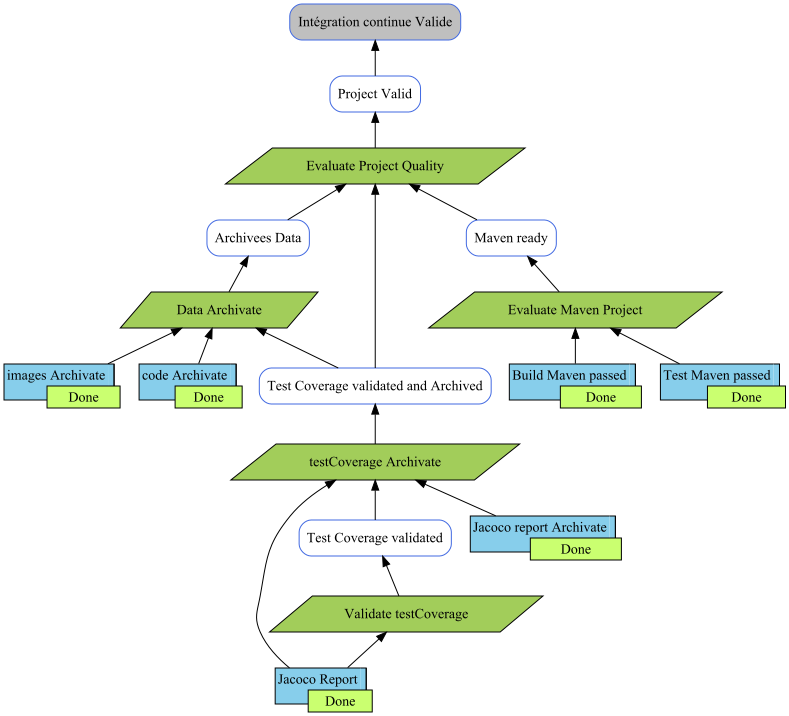
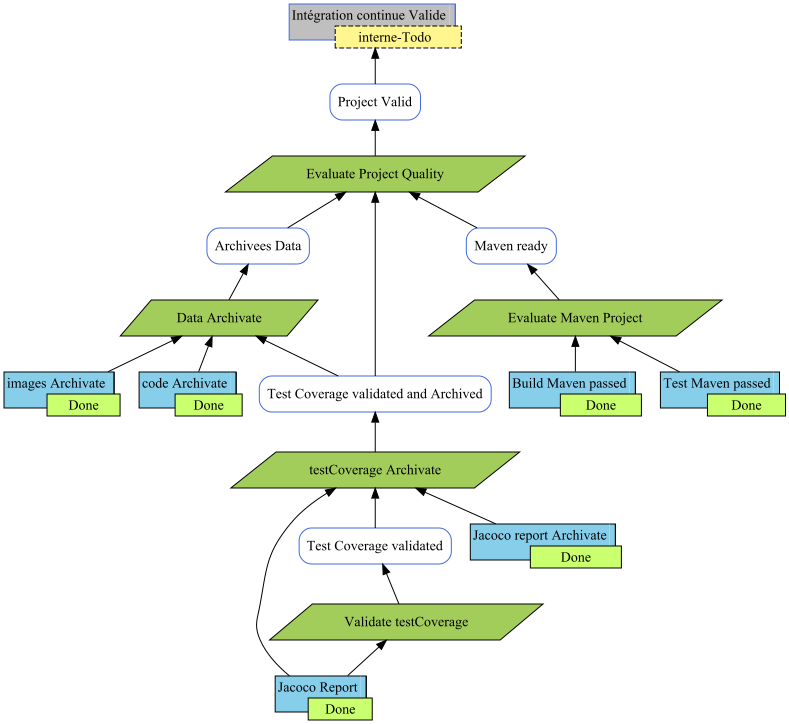
#10 Debut d'ajout de changement d'état de père en fils lord de la génération de png (ne marche pas encore) ps : ne pas faire attention au sysout, ils son temporaire

Changed region(s): [[0.0, 0.0, 1.0, 0.5838], [0.2738, 0.6145, 0.7909, 0.9832]]

diff --git a/src/main/java/export/GraphDrawer.java b/src/main/java/export/GraphDrawer.java
@@ -4,11 +4,21 @@ import justificationDiagram.JustificationDiagram;
 import models.*;
 
 public class GraphDrawer implements JDVisitor {
-    private final StringBuilder gv = new StringBuilder();
+    private StringBuilder gv = new StringBuilder();
 
     public StringBuilder draw(JustificationDiagram diagram) {
         this.visitDiagram(diagram);
         return gv;
+    	/*
+    	TopologicalSort sort = new TopologicalSort(diagram);
+        
+        for (Node node : sort.order) {
+            node.accept(this);
+        }
+        
+        this.visitDiagram(diagram);
+        return gv;
+        */
     }
 
     @Override
@@ -28,19 +38,29 @@ public class GraphDrawer implements JDVisitor {
 
     @Override
     public void visitNode(Node node) {
+    	node.analyseRelation(node);
+    	System.out.println(node.state);
+    	System.out.println(node.label);
+
         gv.append("\t").append(node.alias).append(" [shape=box, label=").append(node.label).append("];\n");
     }
 
     @Override
     public void visitConclusion(Conclusion conclusion) {
+    	conclusion.analyseRelation(conclusion);
+    	System.out.println(conclusion.state);
+    	System.out.println(conclusion.label);
+    	//System.out.println();
+
         if (conclusion.restriction != null) {
+        	String string = conclusion.restriction.replaceAll("\"", "") + " - " + conclusion.state.toString();
             gv.append("\t").append(conclusion.alias).append(" [shape=none margin=0 label=<<table cellspacing=\"0\" " +
                     "cellborder=\"1\" border=\"0\"><tr><td COLSPAN=\"2\" sides=\"LT\" BGCOLOR=\"gray75\" " +
                     "COLOR=\"royalblue\">").append(conclusion.label, 1, conclusion.label.length() - 1)
                     .append("</td><td sides=\"TR\" BGCOLOR=\"gray75\" COLOR=\"royalblue\"></td><td sides=\"L\" " +
                     "COLOR=\"royalblue\"></td></tr><tr><td sides=\"LB\" BGCOLOR=\"gray75\" COLOR=\"royalblue\"></td>" +
-                    "<td sides=\"LTRB\" ROWSPAN=\"2\" colspan=\"3\" port=\"a\" BGCOLOR=\"khaki1\" style=\"dashed\">")
-                    .append(conclusion.restriction, 1, conclusion.restriction.length() - 1)
+                    "<td sides=\"LTRB\" ROWSPAN=\"2\" colspan=\"3\" port=\"a\" BGCOLOR=\"" + setColorUsed(conclusion) + "\" style=\"dashed\">")
+                    .append(string, 0, string.length())
                     .append("</td></tr></table>>];\n");
         } else {
             gv.append("\t").append(conclusion.alias).append(" [shape=box, style=\"filled,rounded\", color=royalblue, " +
@@ -50,6 +70,11 @@ public class GraphDrawer implements JDVisitor {
 
     @Override
     public void visitSubConclusion(SubConclusion subConclusion) {
+    	subConclusion.analyseRelation(subConclusion);
+    	System.out.println(subConclusion.state);
+    	System.out.println(subConclusion.label);
+    	//System.out.println();
+
         if (subConclusion.restriction != null) {
             gv.append("\t").append(subConclusion.alias).append(" [shape=none margin=0 label=<<table cellspacing=\"0\" " +
                     "cellborder=\"1\" border=\"0\"><tr><td COLSPAN=\"2\" sides=\"LT\" BGCOLOR=\"none\" " +
@@ -67,6 +92,20 @@ public class GraphDrawer implements JDVisitor {
 
     @Override
     public void visitStrategy(Strategy strategy) {
+    	strategy.analyseRelation(strategy);
+    	System.out.println(strategy.state);
+    	System.out.println(strategy.label);
+    	/*for (Relation relation : strategy.inputs) {
+			System.out.println("inputs");
+			System.out.println(relation.from.label);
+			System.out.println(relation.from.state.toString());
+			System.out.println(relation.to.label);
+		}
+    	System.out.println();
+    	
+    	*/
+
+
         gv.append("\t").append(strategy.alias).append(" [shape=polygon, style=filled, fillcolor=darkolivegreen3, sides=4, skew=.4, label=")
                 .append(strategy.label).append("];\n");
     }
@@ -83,8 +122,8 @@ public class GraphDrawer implements JDVisitor {
 
     @Override
     public void visitSupport(Support support) {
-    	
     	support.analyseRelation(support);
+
     	gv.append("\t").append(support.alias).append(" [shape=none margin=0 label=<<table cellspacing=\"0\" " +
                 "cellborder=\"1\" border=\"0\"><tr><td COLSPAN=\"2\" sides=\"LT\" BGCOLOR=\"skyblue\" " +
                 "COLOR=\"black\">").append(support.label, 1, support.label.length() - 1)

diff --git a/src/main/java/models/Node.java b/src/main/java/models/Node.java
@@ -39,6 +39,26 @@ public class Node implements Visitable {
     public void analyseRelation(Node node) {
     	boolean isDone = true;
     	if(!node.inputs.isEmpty()) {
+    		
+    		/*
+    		System.out.println();
+    		System.out.println(node.label);
+    		
+    		for (Relation relation : inputs) {
+    			System.out.println("inputs");
+				System.out.println(relation.from.label);
+				System.out.println(relation.to.label);
+			}
+    		
+    		for (Relation relation : outputs) {
+    			System.out.println("outputs");
+				System.out.println(relation.from.label);
+				System.out.println(relation.to.label);
+			}
+    		
+    		System.out.println();
+    		System.out.println();*/
+    		
     		for (Relation relation : node.inputs) {
     			if(relation.from.state.equals(State.TODO)) {
     				isDone = false;

diff --git a/src/main/java/justificationDiagram/JustificationDiagram.java b/src/main/java/justificationDiagram/JustificationDiagram.java
@@ -20,5 +20,12 @@ public class JustificationDiagram implements Visitable {
     public void accept(JDVisitor visitor) {
         visitor.visitDiagram(this);
     }
+    
+    public void analyseDiagrammeRelation() {
+    	for (Map.Entry<String, Node> entryNode : nodes.entrySet()) {
+    		entryNode.getValue().analyseRelation(entryNode.getValue());
+
+         }
+    }
 
 }

diff --git a/src/main/java/JDCompiler.java b/src/main/java/JDCompiler.java
@@ -59,6 +59,7 @@ public class JDCompiler {
     	System.out.println("Generate from " + inputFilePath + "  To  " + outputFilePath);
         JustificationDiagram diagram = createDiagram(inputFilePath);
         GraphDrawer drawer = new GraphDrawer();
+        
         StringBuilder gv = drawer.draw(diagram);
 
         if (cmd.hasOption("png")) {
